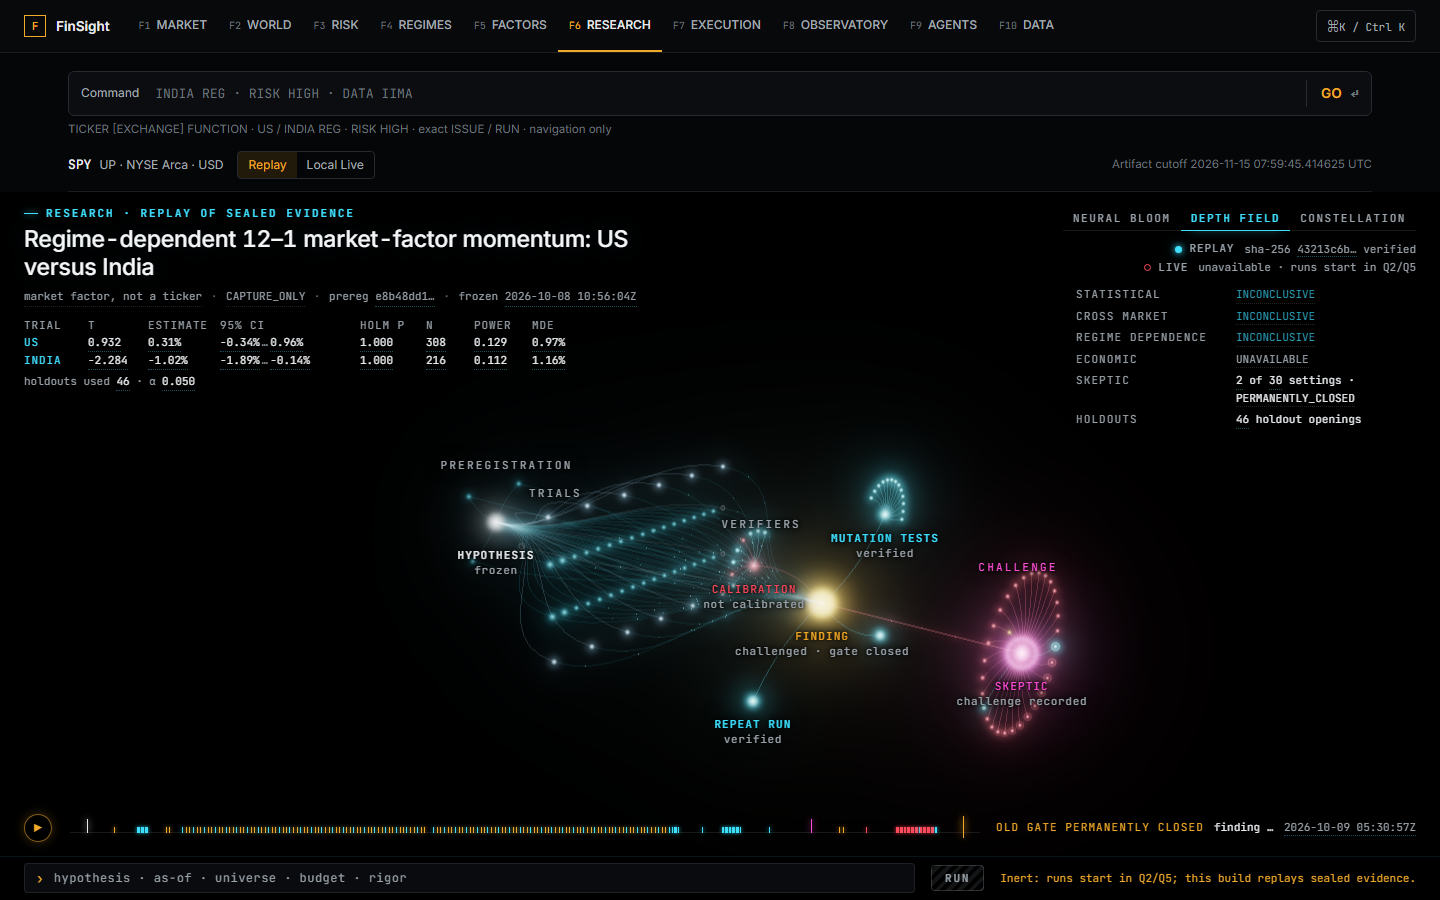
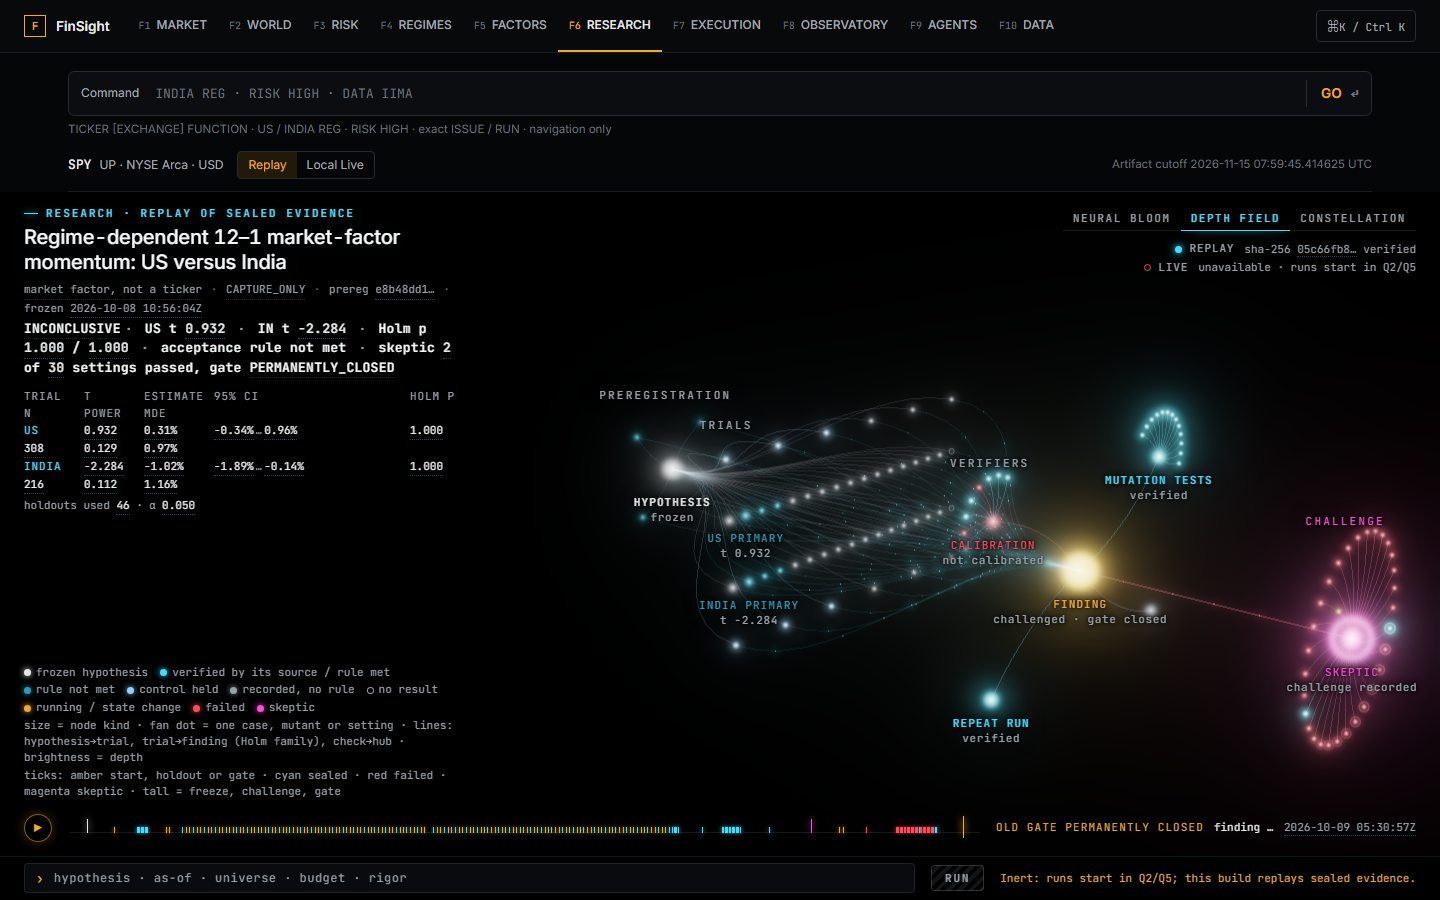
docs(research): screenshots and note for scoped rules, rings and the left rail
Mobile keeps the hero, readout and look tabs apart.

diff --git a/frontend-v2/src/research/research.css b/frontend-v2/src/research/research.css
@@ -678,19 +678,20 @@
 /* Narrow: overlays become sheets, the rail folds to two lines. ------------------------- */
 @media (max-width: 700px) {
   .rs {
-    height: 1040px;
+    height: 1120px;
     flex: none;
   }
   .rs-mast {
     left: 16px;
     right: 16px;
+    width: auto;
     max-width: none;
   }
   .rs-mast h1 {
     font-size: 19px;
   }
   .rs-status {
-    top: 268px;
+    top: 356px;
     right: 16px;
     left: 16px;
     align-items: flex-start;

diff --git a/frontend-v2/src/research/ResearchPage.tsx b/frontend-v2/src/research/ResearchPage.tsx
@@ -318,7 +318,7 @@ function Workspace({
   const insets: Insets = useMemo(
     () =>
       narrow
-        ? { top: 380, bottom: 150, left: 8, right: 8 }
+        ? { top: 428, bottom: 150, left: 8, right: 8 }
         : { top: 96, bottom: 112, left: 480, right: selected >= 0 ? 420 : 24 },
     [narrow, selected],
   );

diff --git a/docs/q3-visual-research.md b/docs/q3-visual-research.md
@@ -32,13 +32,17 @@ replaying and settles when it is sealed. With `prefers-reduced-motion` the graph
   A tampered or missing file, missing Web Crypto or any error renders *unavailable* with the reason.
 - **States.** No state is asserted by the UI. Trial states follow the preregistered rule (Holm p ≤ α and CI
   lower > 0; α read from the preregistration) and each panel shows the rule with its inputs; placebos read
-  *held* when they do not pass Holm. Test suite, calibration (*not calibrated*), guard, repeat run, finding
+  *held* when they do not pass Holm. Rules appear only where the preregistration covers the trial (primary:
+  acceptance; HMM/vol-cluster: two-sided regime contrast; wrong-direction and shuffled-regime: specificity);
+  every other trial reads *recorded, no preregistered rule*. Sidedness is read from each sealed p against t. Test suite, calibration (*not calibrated*), guard, repeat run, finding
   and the gate event are derived from their source fields.
 - **Graph.** 109 real nodes: the preregistered hypothesis at the core; US and India trials, placebo ring,
   calibration, mutation tests, test suite, repeat run, the finding, and the v0.1.1 skeptic audit. In Bloom a
   trial's distance from the hypothesis is its t (estimate ÷ SE, derived from the sealed CI with the formula
-  shown), with a no-effect ring and the one-sided critical-value ring. Cyan settled, amber state changes,
-  magenta the skeptic, red failure only. A readout of the two primary trials sits under the title.
+  shown); rings are labelled on their strokes: t = 0, t = 1, the one-sided critical value and ±1.96 for
+  two-sided trials (both before Holm); trials without a result sit on a separate arc. Cyan settled, amber state changes,
+  magenta the skeptic, red failure only. A left rail holds the hero verdict line, the
+  readout of the two primary trials and a legend naming every visual channel.
 - **Replay.** A timeline scrubber replays the recorded events in order; scorecard values stay pending until
   the replay reaches the event that sealed them. This is the only motion on the page.
 - **HUD.** Clicking or pressing Enter on a node opens a translucent overlay with evidence, cost, model and
@@ -73,7 +77,7 @@ node scripts/verify-research.mjs --url http://127.0.0.1:4178      # browser chec
   horizontal scroll, and the 2D fallback positions every node.
 - `tsc`, lint (0 errors), production build, and the Observatory, neural, globe and shell verifiers pass after
   the extraction.
-- Frame rate (`--perf` against a `VITE_PERF_PROBE=true` build; the sampler and the 200-node synthetic probe
+- Frame rate (`--perf` against a `VITE_PERF_PROBE=true vite build --mode perf` build; the sampler and the 200-node synthetic probe
   exist only in such builds): headless Chrome, D3D11 on an RTX 4060 laptop GPU, 1440x900, vsync-capped:
   real 109 nodes median 59.9 fps (p5 56.5); synthetic 200 nodes median 59.9 fps (p5 56.2).
 - Screenshots: `docs/screenshots/q3-research-{bloom,depth,constellation}-{1440,390}.png` and
